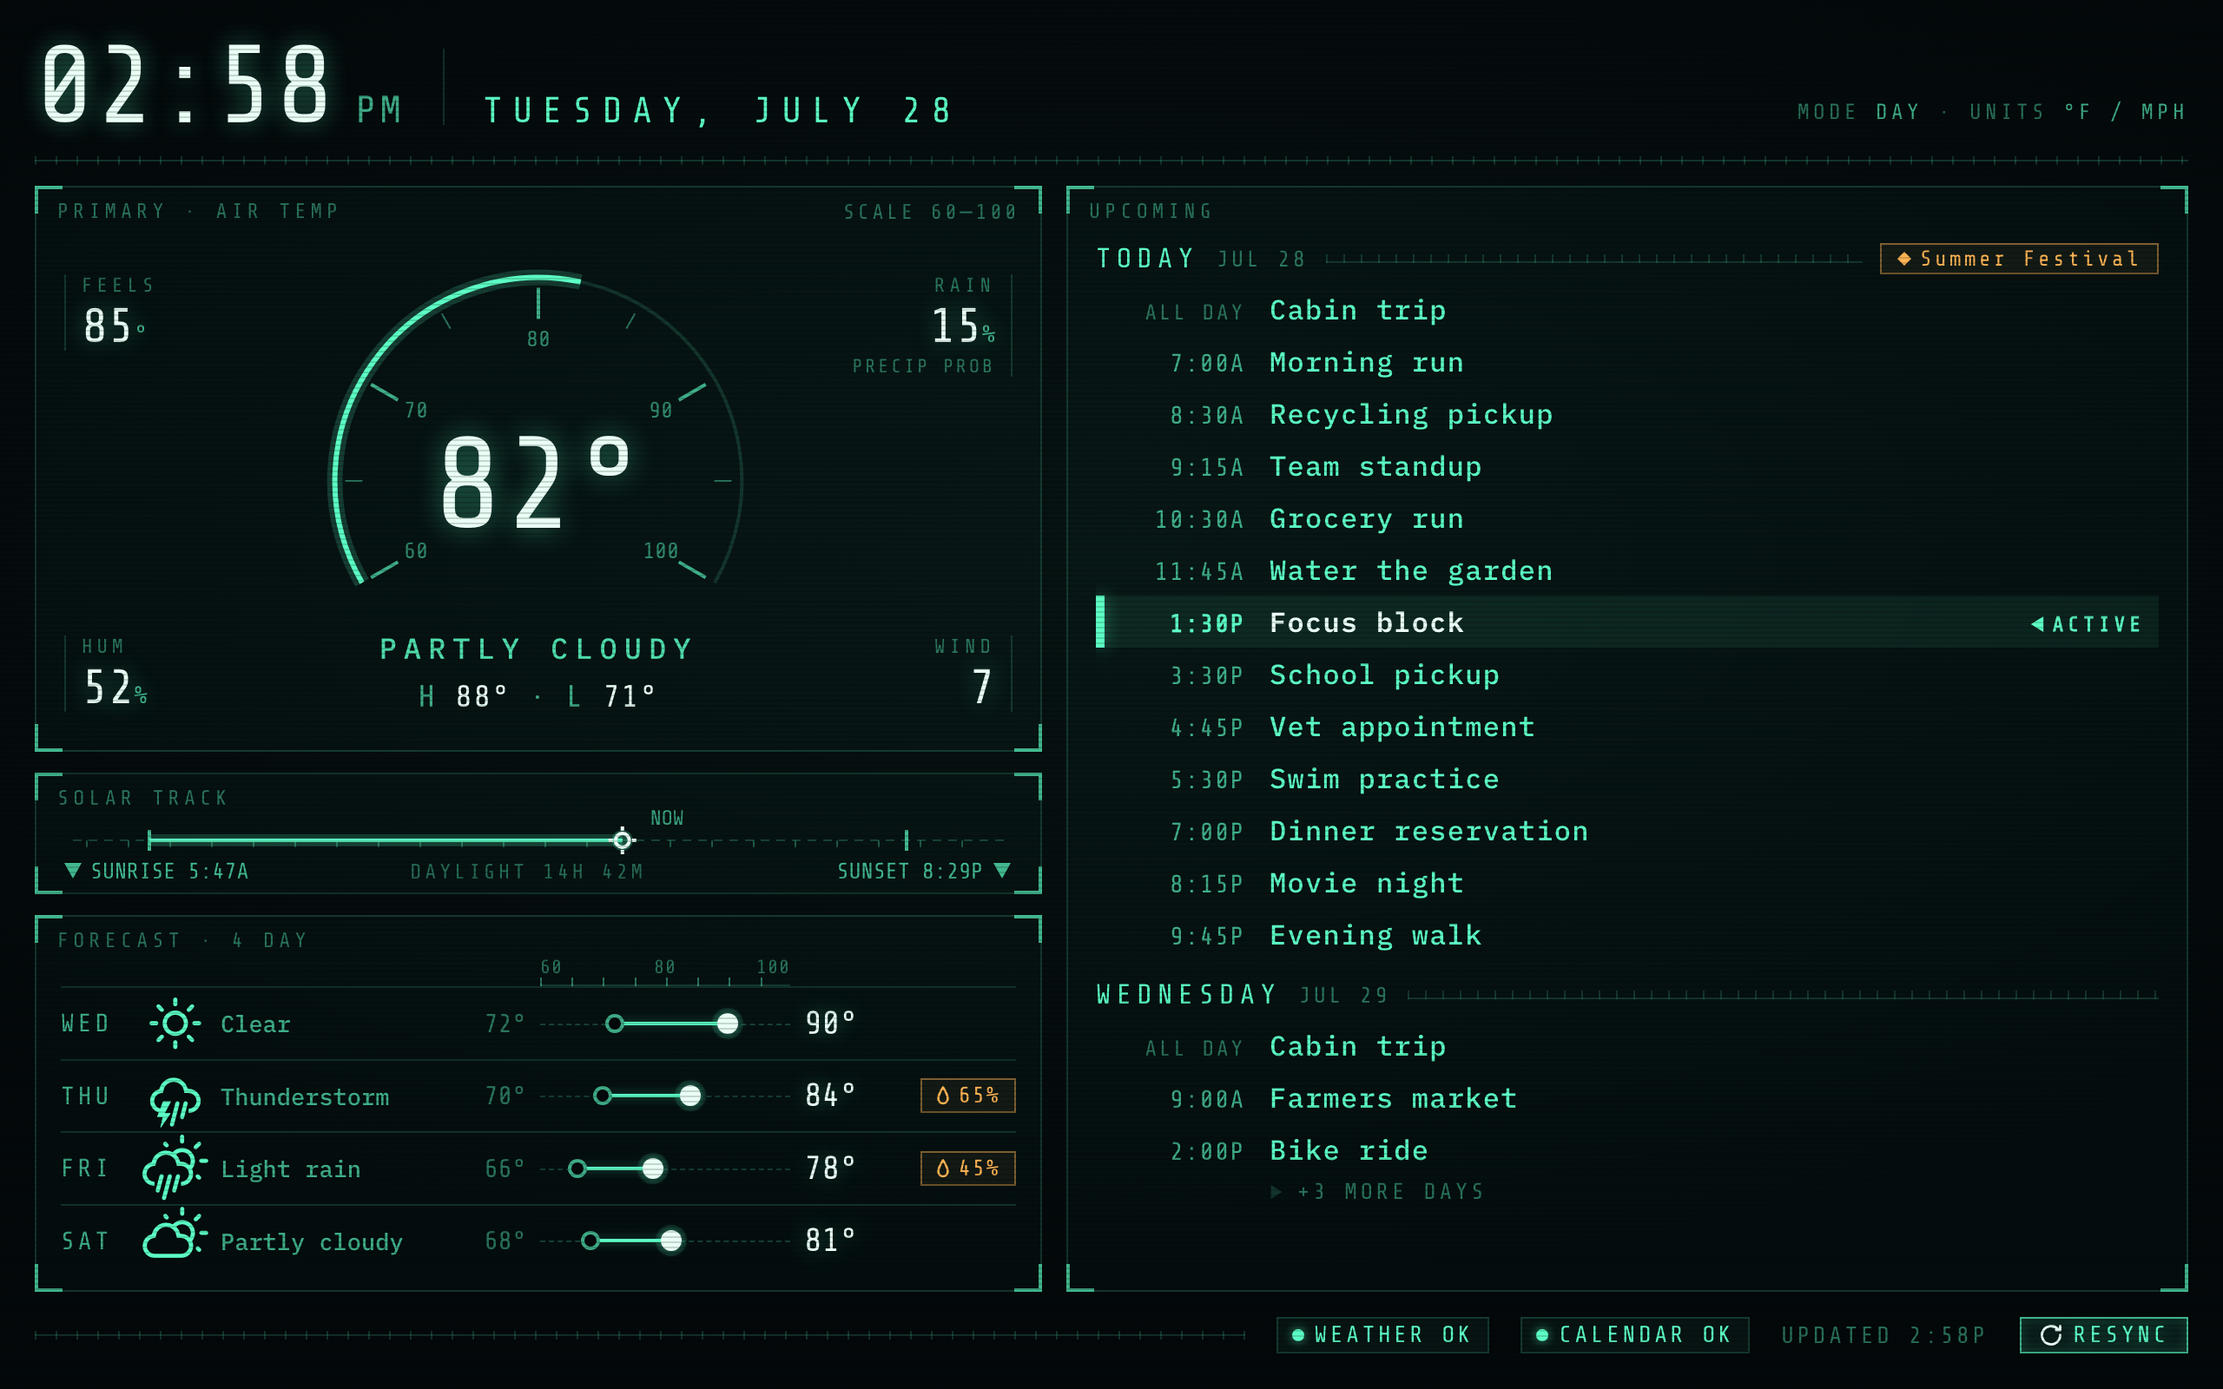
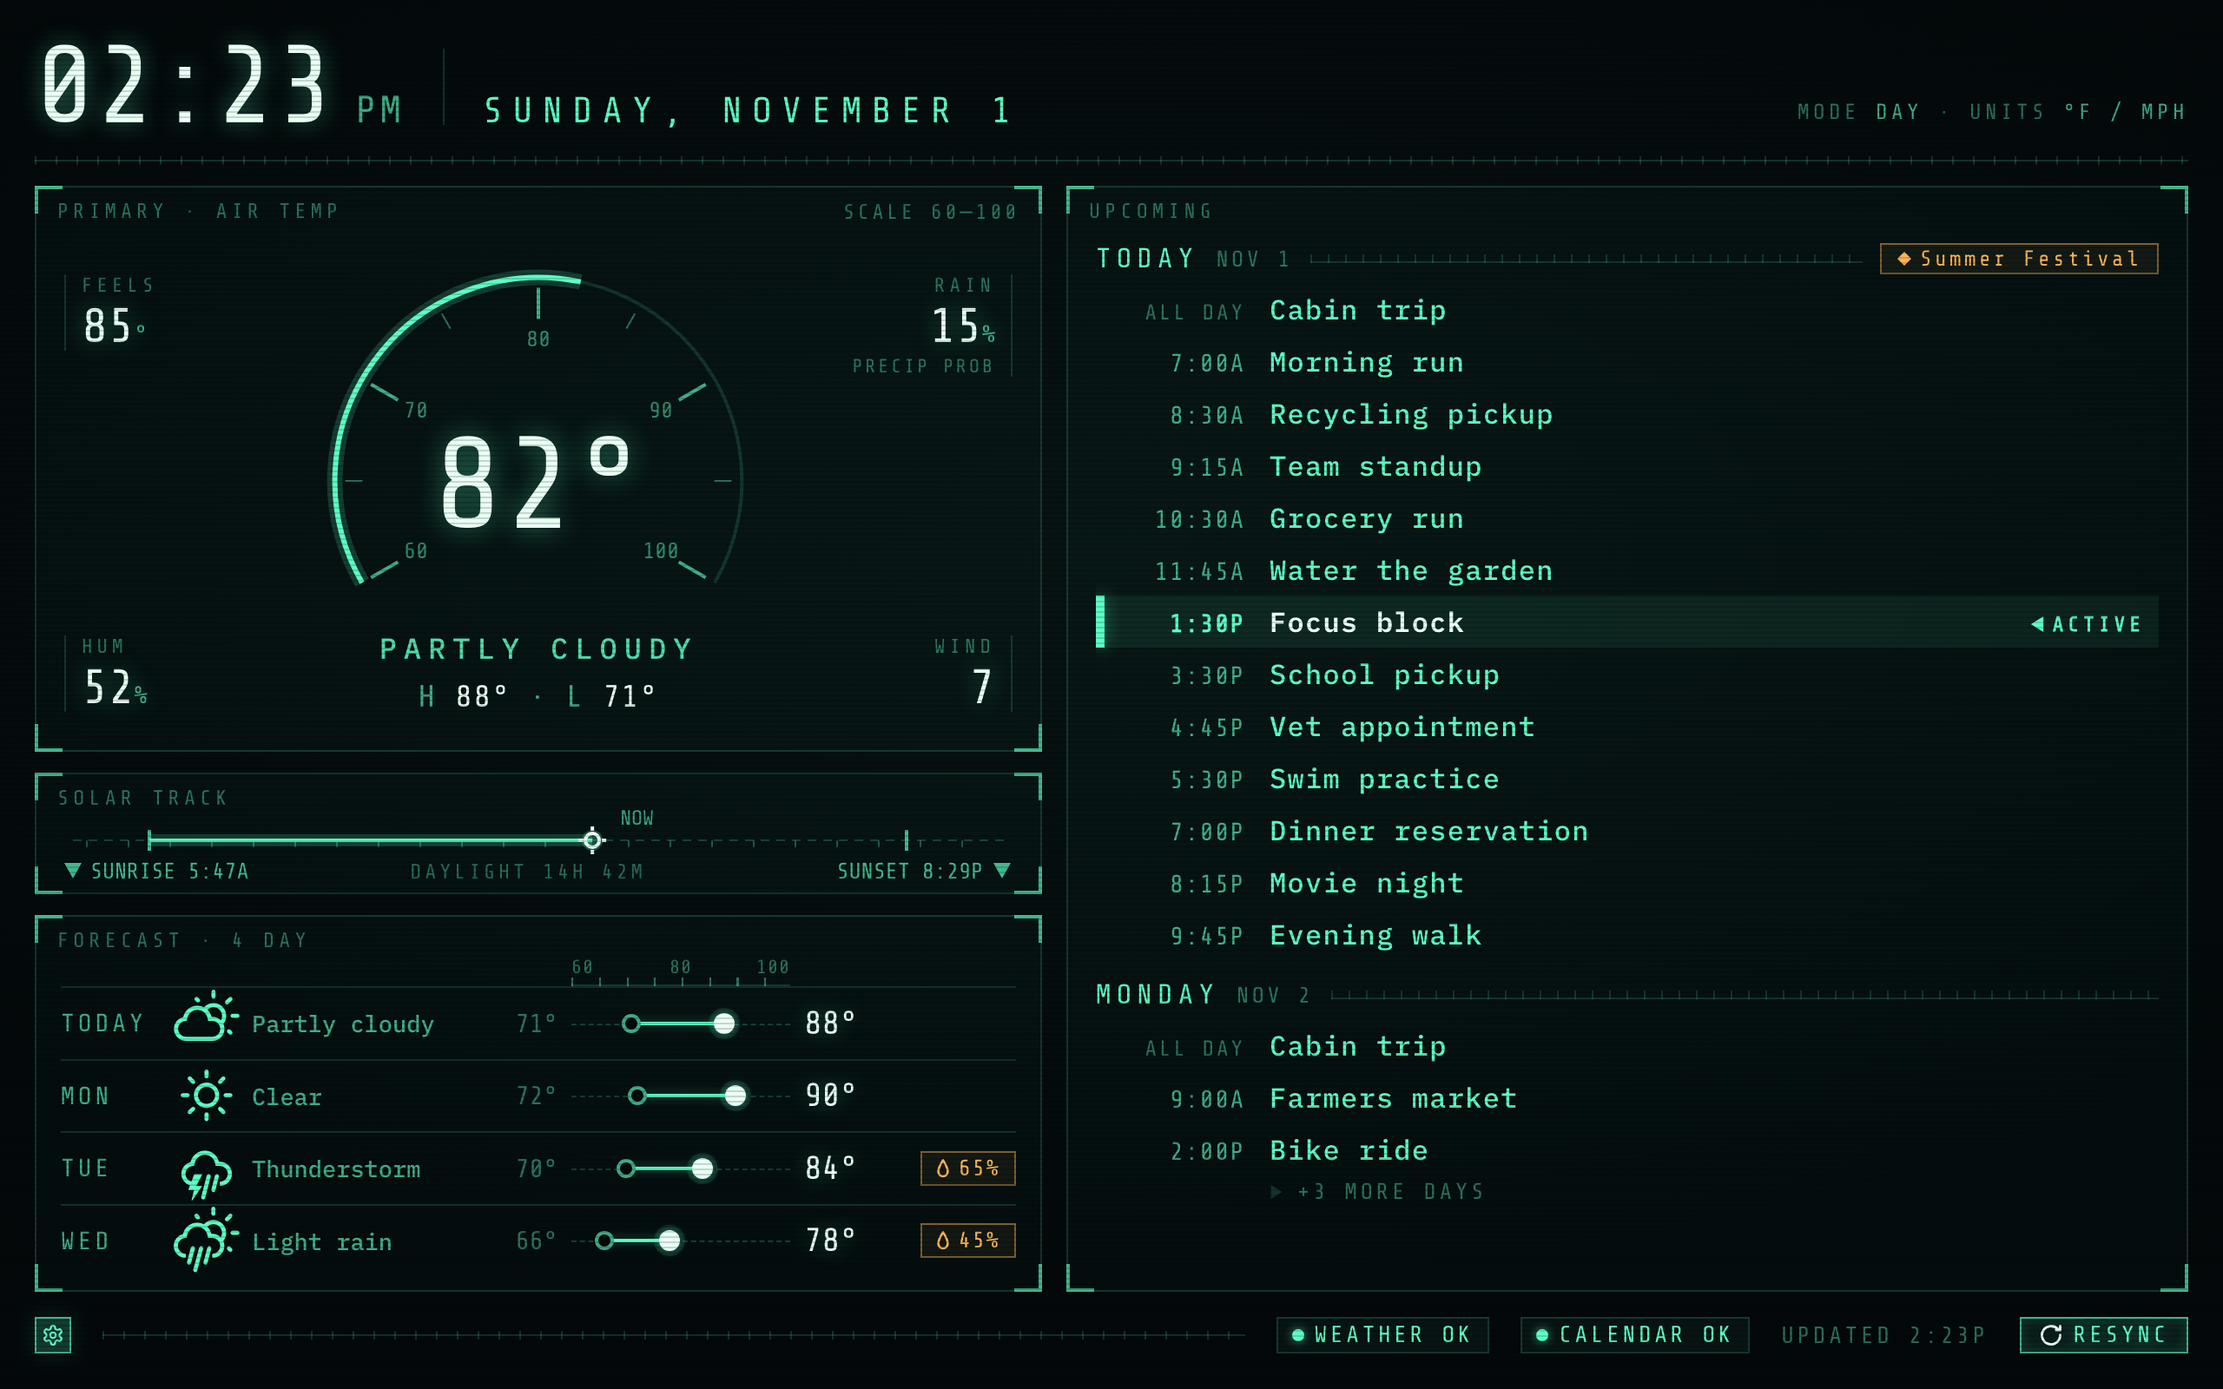
Forecast = today + 3 days

diff --git a/design-mocks/instrument-hud.html b/design-mocks/instrument-hud.html
@@ -106,7 +106,7 @@
   /* ---------- forecast : four horizontal channel rows, shared 50–110 scale ---------- */
   #fcst{flex:1;display:flex;flex-direction:column;padding:24px 14px 8px;min-height:0}
   .fruler,.frow{
-    display:grid;grid-template-columns:40px 36px 132px 36px 1fr 44px 70px;
+    display:grid;grid-template-columns:58px 36px 132px 36px 1fr 44px 70px;
     gap:8px;align-items:center;
   }
   .fruler{flex:0 0 16px}
@@ -264,6 +264,15 @@
         <span class="mlabel">FORECAST · 4 DAY</span>
         <div class="fruler"><div class="rul" id="rul"></div></div>
         <div class="frow">
+          <span class="dn">TODAY</span>
+          <svg viewBox="0 0 48 40" class="gl" data-g="pcloudy"></svg>
+          <span class="cond">Partly cloudy</span>
+          <span class="lo">71°</span>
+          <div class="track" data-lo="71" data-hi="88"></div>
+          <span class="hi">88°</span>
+          <span class="pp"></span>
+        </div>
+        <div class="frow">
           <span class="dn">SUN</span>
           <svg viewBox="0 0 48 40" class="gl" data-g="clear"></svg>
           <span class="cond">Clear</span>
@@ -293,15 +302,6 @@
           <span class="pp on"><svg viewBox="0 0 10 14" aria-hidden="true"><path
             d="M5 1 C5 1 1.6 6.4 1.6 9.2 a3.4 3.4 0 0 0 6.8 0 C8.4 6.4 5 1 5 1 Z"
             fill="none" stroke="#ffb454" stroke-width="1.6" stroke-linejoin="round"/></svg>45%</span>
-        </div>
-        <div class="frow">
-          <span class="dn">WED</span>
-          <svg viewBox="0 0 48 40" class="gl" data-g="pcloudy"></svg>
-          <span class="cond">Partly cloudy</span>
-          <span class="lo">68°</span>
-          <div class="track" data-lo="68" data-hi="81"></div>
-          <span class="hi">81°</span>
-          <span class="pp"></span>
         </div>
       </div>
     </section>

diff --git a/design-mocks/dark-bento.html b/design-mocks/dark-bento.html
@@ -209,6 +209,18 @@
     <!-- ===== forecast: 4 cards ===== -->
     <div class="forecast">
       <div class="fcard glass">
+        <div class="fday">Today</div>
+        <div class="fmid">
+          <div class="fcard-icon">
+            <svg viewBox="0 0 24 24" fill="none" stroke="currentColor" stroke-width="1.6" stroke-linecap="round" stroke-linejoin="round" aria-hidden="true"><circle cx="8" cy="8" r="3"/><path d="M8 1.5v1.6M8 12.9v.6M2.1 8h1.4M14 2l-1 1M3 3l1 1"/><path d="M10 19.5h7.3a3.2 3.2 0 0 0 .3-6.4 4.4 4.4 0 0 0-8.4-1.2A3.6 3.6 0 0 0 9.5 19.5Z"/></svg>
+          </div>
+          <div class="fright">
+            <div class="ftemp"><span class="hi">88°</span><span class="lo">71°</span></div>
+          </div>
+        </div>
+        <div class="fdesc">Partly cloudy</div>
+      </div>
+      <div class="fcard glass">
         <div class="fday">Sunday</div>
         <div class="fmid">
           <div class="fcard-icon">
@@ -245,18 +257,6 @@
           </div>
         </div>
         <div class="fdesc">Light rain</div>
-      </div>
-      <div class="fcard glass">
-        <div class="fday">Wednesday</div>
-        <div class="fmid">
-          <div class="fcard-icon">
-            <svg viewBox="0 0 24 24" fill="none" stroke="currentColor" stroke-width="1.6" stroke-linecap="round" stroke-linejoin="round" aria-hidden="true"><circle cx="8" cy="8" r="3"/><path d="M8 1.5v1.6M8 12.9v.6M2.1 8h1.4M14 2l-1 1M3 3l1 1"/><path d="M10 19.5h7.3a3.2 3.2 0 0 0 .3-6.4 4.4 4.4 0 0 0-8.4-1.2A3.6 3.6 0 0 0 9.5 19.5Z"/></svg>
-          </div>
-          <div class="fright">
-            <div class="ftemp"><span class="hi">81°</span><span class="lo">68°</span></div>
-          </div>
-        </div>
-        <div class="fdesc">Partly cloudy</div>
       </div>
     </div>
 

diff --git a/design-mocks/paper-editorial.html b/design-mocks/paper-editorial.html
@@ -471,6 +471,18 @@
         <div class="fc-table tnum">
 
           <div class="fc-row">
+            <div class="fc-day">Today</div>
+            <svg class="ico" width="24" height="24" viewBox="0 0 24 24" aria-hidden="true">
+              <path d="M12 2v2"/><path d="m4.93 4.93 1.41 1.41"/><path d="M20 12h2"/>
+              <path d="m19.07 4.93-1.41 1.41"/>
+              <path d="M15.947 12.65a4 4 0 0 0-5.925-4.128"/>
+              <path d="M13 22H7a5 5 0 1 1 4.9-6H13a3 3 0 0 1 0 6Z"/>
+            </svg>
+            <div class="fc-cond">Partly cloudy</div>
+            <div class="fc-temps">88°<span class="sl">/</span><span class="lo">71°</span></div>
+          </div>
+
+          <div class="fc-row">
             <div class="fc-day">Sunday</div>
             <svg class="ico" width="24" height="24" viewBox="0 0 24 24" aria-hidden="true">
               <circle cx="12" cy="12" r="4"/>
@@ -505,18 +517,6 @@
               <span class="fc-precip">45% precip.</span>
             </div>
             <div class="fc-temps">78°<span class="sl">/</span><span class="lo">66°</span></div>
-          </div>
-
-          <div class="fc-row">
-            <div class="fc-day">Wednesday</div>
-            <svg class="ico" width="24" height="24" viewBox="0 0 24 24" aria-hidden="true">
-              <path d="M12 2v2"/><path d="m4.93 4.93 1.41 1.41"/><path d="M20 12h2"/>
-              <path d="m19.07 4.93-1.41 1.41"/>
-              <path d="M15.947 12.65a4 4 0 0 0-5.925-4.128"/>
-              <path d="M13 22H7a5 5 0 1 1 4.9-6H13a3 3 0 0 1 0 6Z"/>
-            </svg>
-            <div class="fc-cond">Partly cloudy</div>
-            <div class="fc-temps">81°<span class="sl">/</span><span class="lo">68°</span></div>
           </div>
 
         </div>

diff --git a/design-mocks/swiss-mono.html b/design-mocks/swiss-mono.html
@@ -370,6 +370,14 @@
     <!-- FORECAST -->
     <section class="cell forecast" style="background:var(--ink)">
       <div class="fc">
+        <div class="fc-day">Today</div>
+        <svg class="icon" width="54" height="54"><use href="#i-partly"/></svg>
+        <div class="fc-temps"><span class="fc-hi">88°</span><span class="fc-lo">/ 71°</span></div>
+        <div class="fc-foot">
+          <div class="fc-cond">Partly cloudy</div>
+        </div>
+      </div>
+      <div class="fc">
         <div class="fc-day">Sunday</div>
         <svg class="icon" width="54" height="54"><use href="#i-sun"/></svg>
         <div class="fc-temps"><span class="fc-hi">90°</span><span class="fc-lo">/ 72°</span></div>
@@ -393,14 +401,6 @@
         <div class="fc-foot">
           <div class="fc-cond">Light rain</div>
           <div class="fc-precip">PRECIP <b>45%</b></div>
-        </div>
-      </div>
-      <div class="fc">
-        <div class="fc-day">Wednesday</div>
-        <svg class="icon" width="54" height="54"><use href="#i-partly"/></svg>
-        <div class="fc-temps"><span class="fc-hi">81°</span><span class="fc-lo">/ 68°</span></div>
-        <div class="fc-foot">
-          <div class="fc-cond">Partly cloudy</div>
         </div>
       </div>
     </section>

diff --git a/design-mocks/soft-scandi.html b/design-mocks/soft-scandi.html
@@ -533,6 +533,14 @@
     </div>
 
     <div class="forecast">
+      <div class="fc fc-partly">
+        <div class="fc-day">Today</div>
+        <div class="fc-main">
+          <svg role="img" aria-label="Partly cloudy"><use href="#i-partly"/></svg>
+          <div class="fc-temps"><span class="fc-hi">88°</span><span class="fc-lo">71°</span></div>
+        </div>
+        <div class="fc-foot"><span>Partly cloudy</span></div>
+      </div>
       <div class="fc fc-clear">
         <div class="fc-day">Sunday</div>
         <div class="fc-main">
@@ -562,14 +570,6 @@
           <span>Light rain</span>
           <span class="fc-precip"><svg viewBox="0 0 24 24" fill="currentColor"><path d="M12 3.5C12 3.5 6.5 10 6.5 14a5.5 5.5 0 0 0 11 0C17.5 10 12 3.5 12 3.5Z"/></svg>45%</span>
         </div>
-      </div>
-      <div class="fc fc-partly">
-        <div class="fc-day">Wednesday</div>
-        <div class="fc-main">
-          <svg role="img" aria-label="Partly cloudy"><use href="#i-partly"/></svg>
-          <div class="fc-temps"><span class="fc-hi">81°</span><span class="fc-lo">68°</span></div>
-        </div>
-        <div class="fc-foot"><span>Partly cloudy</span></div>
       </div>
     </div>
 

diff --git a/static/layouts/classic/index.js b/static/layouts/classic/index.js
@@ -5,7 +5,7 @@
 // Side-effect-free on import (see core/machine.js): the DOM is touched only in
 // mount() and the render hooks.
 
-import { to12, pad2, fmtCompact, fmtCompactOr, fmtLong, localParts, localDate, localDayKey, dayLabel } from "../../core/time.js";
+import { to12, pad2, fmtCompact, fmtCompactOr, fmtLong, localParts, localDayKey, dayLabel } from "../../core/time.js";
 import {
   groupByDay,
   splitColumns,
@@ -215,7 +215,7 @@ function renderForecast(forecast) {
   root.replaceChildren();
   // The grid is a fixed repeat(4,1fr); slice so a long feed can't misalign it.
   for (const f of forecast.slice(0, 4)) {
-    const dname = localDate(f.date).toLocaleDateString(undefined, { weekday: "long" });
+    const { dname } = dayLabel(f.date); // "Today" or the long weekday
     const card = el("section", "glass fcard");
 
     const temp = el("span", "ftemp");

diff --git a/static/layouts/swiss-mono/index.js b/static/layouts/swiss-mono/index.js
@@ -5,7 +5,7 @@
 //
 // Side-effect-free on import (see core/machine.js).
 
-import { to12, pad2, fmtCompact, fmtCompactOr, fmtLong, localParts, localDate, localDayKey, dayLabel } from "../../core/time.js";
+import { to12, pad2, fmtCompact, fmtCompactOr, fmtLong, localParts, localDayKey, dayLabel } from "../../core/time.js";
 import {
   groupByDay,
   splitColumns,
@@ -203,7 +203,7 @@ function renderForecast(forecast) {
   root.replaceChildren();
   // The grid is a fixed repeat(4,1fr); slice so a long feed can't misalign it.
   for (const f of forecast.slice(0, 4)) {
-    const dname = localDate(f.date).toLocaleDateString(undefined, { weekday: "long" });
+    const { dname } = dayLabel(f.date); // "Today" or the long weekday
     const card = el("div", "fc");
 
     const { hi, lo } = fmtHiLo(f);

diff --git a/static/layouts/hud/index.js b/static/layouts/hud/index.js
@@ -398,7 +398,7 @@ function renderForecast(forecast) {
   root.replaceChildren();
   const markers = forecastRangePlot(days, plotWindow);
   days.forEach((f, i) => {
-    const dname = localDate(f.date).toLocaleDateString(undefined, { weekday: "short" }).toUpperCase();
+    const dname = dayLabel(f.date).isToday ? "TODAY" : localDate(f.date).toLocaleDateString(undefined, { weekday: "short" }).toUpperCase();
     const row = el("div", "frow");
 
     const track = el("div", "track");

diff --git a/static/layouts/hud/layout.css b/static/layouts/hud/layout.css
@@ -400,7 +400,7 @@
 .hud .fruler,
 .hud .frow {
   display: grid;
-  grid-template-columns: 40px 36px 132px 36px 1fr 44px 70px;
+  grid-template-columns: 58px 36px 132px 36px 1fr 44px 70px; /* col 1 fits "TODAY" */
   gap: 8px;
   align-items: center;
 }

diff --git a/tests/test_weather.py b/tests/test_weather.py
@@ -154,40 +154,40 @@ def test_current_within_forecast_range_leaves_high_low_alone() -> None:
     assert cur["low_f"] == 61
 
 
-# ── normalize_weather: forecast (4 future days = daily[1:5]) ─────────────────
+# ── normalize_weather: forecast (today + 3 future days = daily[0:4]) ─────────
 
 
-def test_forecast_is_four_future_days() -> None:
+def test_forecast_is_today_plus_three_days() -> None:
     fc = weather.normalize_weather(RAW)["forecast"]
     assert [f["date"] for f in fc] == [
+        "2026-06-29",
         "2026-06-30",
         "2026-07-01",
         "2026-07-02",
-        "2026-07-03",
-    ]  # daily[1:5] - today (daily[0]) is excluded; it lives in the hero
+    ]  # daily[0:4] - today leads; daily[4] (if returned) is dropped
 
 
 def test_forecast_fields_resolved() -> None:
-    first = weather.normalize_weather(RAW)["forecast"][0]
-    assert first["code"] == 2
-    assert first["text"] == "Partly cloudy"
-    assert first["icon"] == "partly-cloudy-day"  # cards always use the daytime token
-    assert first["high_f"] == 78
-    assert first["low_f"] == 63
-    assert first["precip_prob_pct"] == 20
-    assert first["precip_expected"] is False  # code 2 (partly cloudy) is dry
+    second = weather.normalize_weather(RAW)["forecast"][1]
+    assert second["code"] == 2
+    assert second["text"] == "Partly cloudy"
+    assert second["icon"] == "partly-cloudy-day"  # cards always use the daytime token
+    assert second["high_f"] == 78
+    assert second["low_f"] == 63
+    assert second["precip_prob_pct"] == 20
+    assert second["precip_expected"] is False  # code 2 (partly cloudy) is dry
 
 
 def test_forecast_precip_expected_tracks_the_weather_code() -> None:
     # Gated on is_wet(code), not the %: a dry code hides the line even at 20%.
     fc = weather.normalize_weather(RAW)["forecast"]
-    assert fc[1]["code"] == 63 and fc[1]["precip_expected"] is True  # rain
-    assert all(f["precip_expected"] is False for f in (fc[0], fc[2], fc[3]))
+    assert fc[2]["code"] == 63 and fc[2]["precip_expected"] is True  # rain
+    assert all(f["precip_expected"] is False for f in (fc[0], fc[1], fc[3]))
 
 
 def test_forecast_uses_daytime_icons_regardless_of_current_is_day() -> None:
     fc = weather.normalize_weather(with_current(is_day=0))["forecast"]
-    assert fc[1]["icon"] == "rain-day"  # code 63 daytime
+    assert fc[2]["icon"] == "rain-day"  # code 63 daytime
 
 
 # ── robustness ──────────────────────────────────────────────────────────────

diff --git a/app/sources/weather.py b/app/sources/weather.py
@@ -33,13 +33,13 @@ _PARAMS: Final[dict[str, str | int | float]] = {
     "wind_speed_unit": "mph",
     "precipitation_unit": "inch",
     "timezone": "auto",
-    "forecast_days": 5,
+    "forecast_days": 4,
 }
 
 _REQUEST_TIMEOUT_SECONDS: Final = 10
 
-# today (hero, daily[0]) + 4 future days (cards, daily[1:5]).
-_REQUIRED_DAILY_DAYS: Final = 5
+# today (hero + first card, daily[0]) + 3 future days (cards, daily[1:4]).
+_REQUIRED_DAILY_DAYS: Final = 4
 
 
 def _tz(utc_offset_seconds: int) -> timezone:
@@ -135,7 +135,7 @@ def normalize_weather(raw: dict[str, Any]) -> WeatherData:
         "sunrise": _with_offset(daily["sunrise"][0], tz),
         "sunset": _with_offset(daily["sunset"][0], tz),
     }
-    forecast = [_forecast_day(daily, i) for i in range(1, 5)]
+    forecast = [_forecast_day(daily, i) for i in range(4)]
     return {"current": _clamp_high_low(current), "forecast": forecast}
 
 

diff --git a/tools/mockup.py b/tools/mockup.py
@@ -141,15 +141,16 @@ def build_doc(tz: tzinfo) -> DashboardDoc:
         "sunset": iso(now.replace(hour=20, minute=29, second=0, microsecond=0)),
     }
     # (code, high, low, precip %): a dry/wet mix to exercise the precip line.
+    # Today leads and mirrors `current` (code, H/L, precip %).
     forecast_days = [
+        (2, 88, 71, 15),
         (0, 90, 72, 5),
         (95, 84, 70, 65),
         (61, 78, 66, 45),
-        (2, 81, 68, 10),
     ]
     forecast: list[ForecastDay] = [
         {
-            "date": day(i + 1),
+            "date": day(i),  # today leads, matching the backend
             "code": code,
             **describe(code, is_day=True),
             "high_f": hi,
